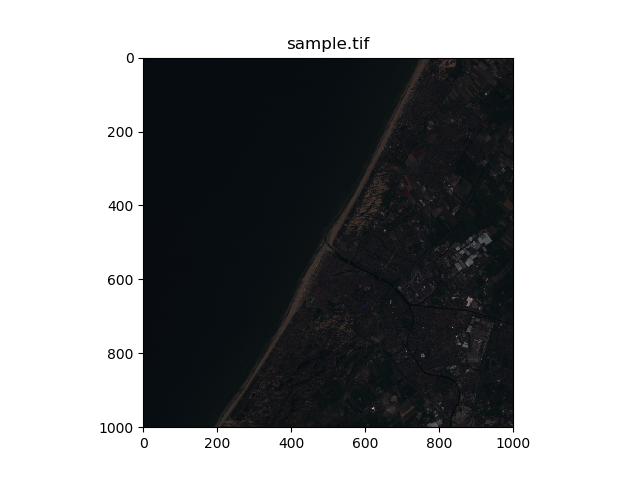
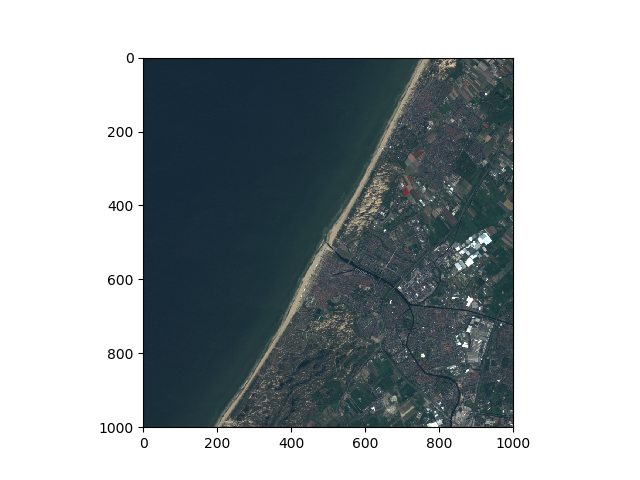
fixed sample.png

diff --git a/README.md b/README.md
@@ -4,6 +4,9 @@ GeoTiff Sample
 This repository contains a sample GeoTiff file created from Copernicus
 Sentinel-2A data for training purposes.
 
+![Sample GeoTiff File.](sample.png)
+
+
 Meta Data
 ---------
 
